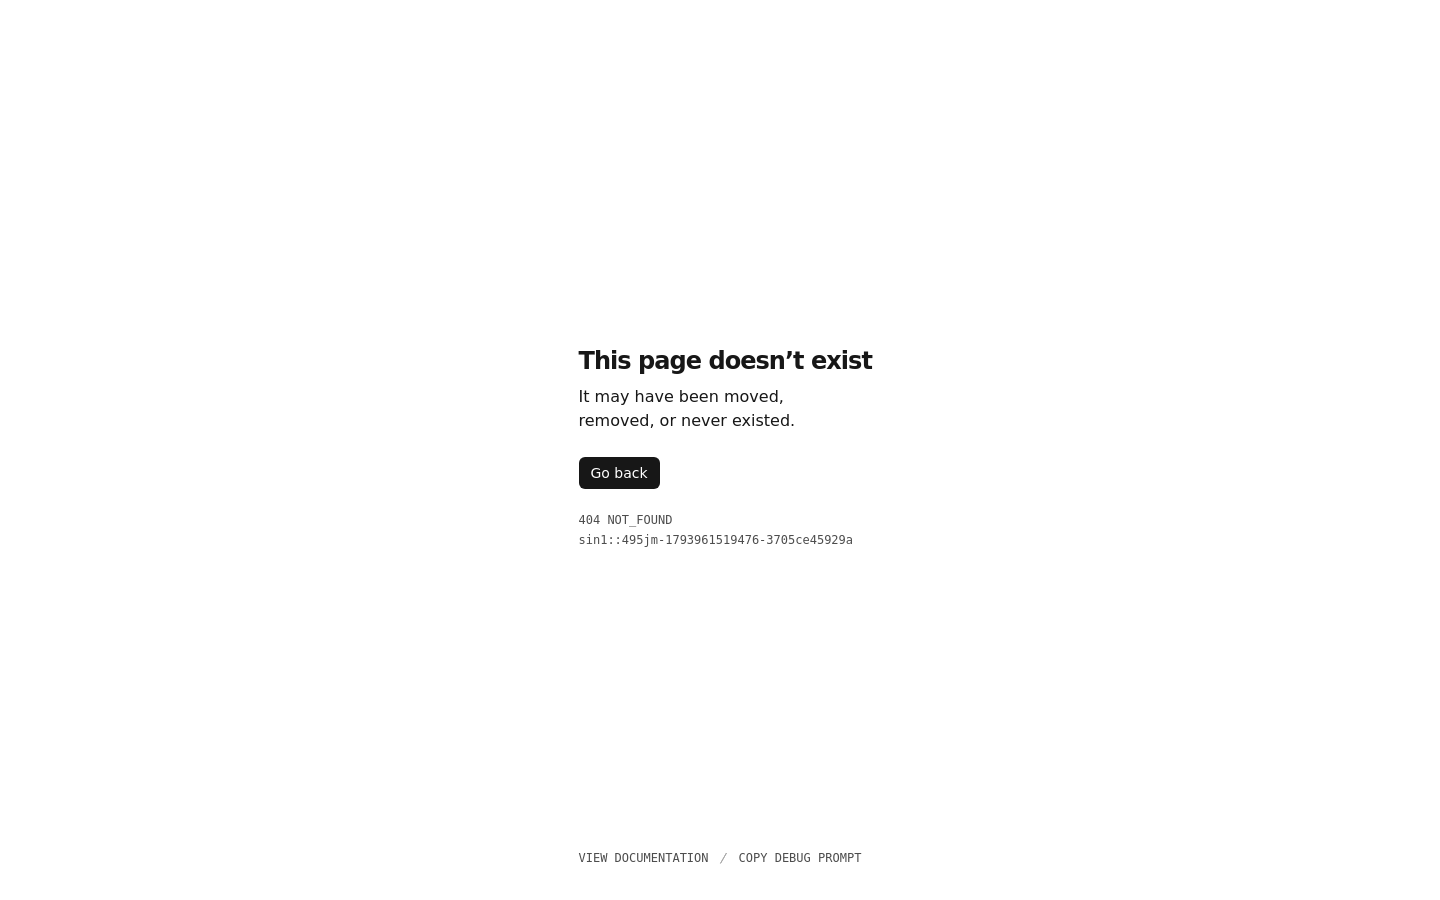
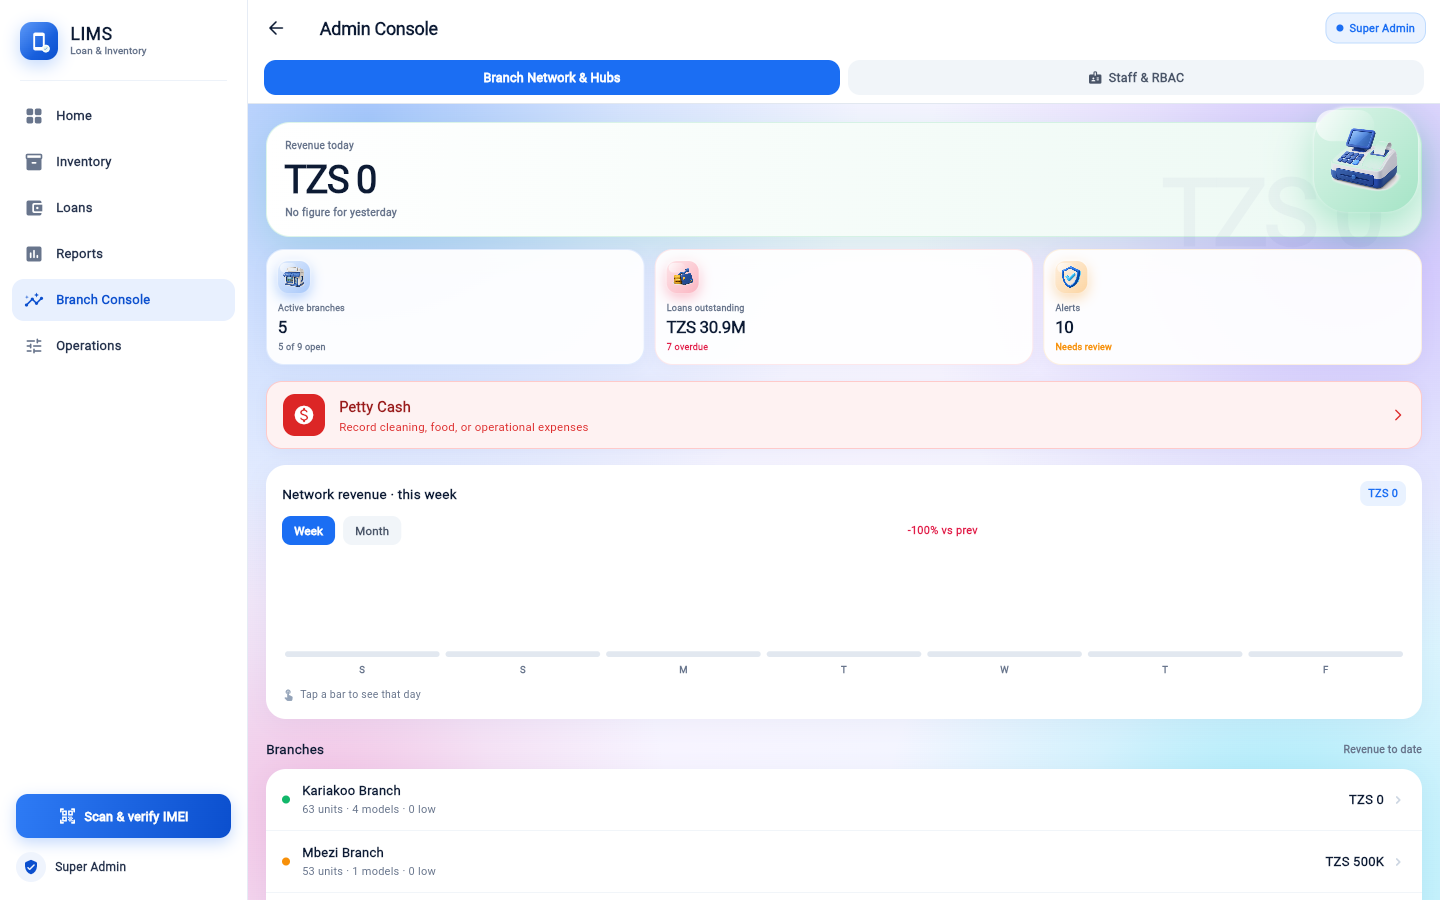
fix(auth): stay signed in across a reload
The token was always there - `sb-...-auth-token` in local storage - but nothing
read it back. UserRoleNotifier started at `noSession` and was only ever hydrated
by the login button, so the router saw a signed-out visitor on every launch and
parked them on the sign-in screen with a valid session sitting in storage. A
refresh, a reopened tab or an installed app meant logging in again.

- ApiService.restoreSession() rebuilds the identity from the stored session,
  using the same three-step profile lookup as login, and fails closed on an
  account with no usable role
- main() hydrates role, name, branch and avatar before the router is built
- the initial route opens on the dashboard when a session was restored, and a
  link that names a screen still wins over that default

Verified on the live URL: reload keeps the console, rather than returning to the
sign-in list.

diff --git a/frontend/lib/core/services/api_service.dart b/frontend/lib/core/services/api_service.dart
@@ -193,58 +193,8 @@ class ApiService {
       throw StateError('Invalid email or password.');
     }
 
-    // 2. Read the server-owned role. This is display/routing data only; RLS on
-    //    every table is what actually enforces access.
-    //
-    //    The live `public.profiles` table does NOT use the auth user id as its
-    //    primary key. It carries a separate nullable `auth_user_id` column, and
-    //    rows are keyed by their own `id`. Reading the profile by `.eq('id',
-    //    user.id)` therefore matched nothing and every real account fell through
-    //    to the fail-closed path — the accounts existed, the roles did not.
-    //
-    //    Resolution order, most authoritative first:
-    //      1. auth_user_id  — the correct link on the live schema
-    //      2. id            — correct on a schema where they are the same value
-    //      3. email         — legacy rows written before the link existed
-    //    `eq` escapes its argument, so no filter expression is interpolated.
-    Map<String, dynamic>? res;
-
-    try {
-      res = await client
-          .from('profiles')
-          .select()
-          .eq('auth_user_id', user.id)
-          .maybeSingle();
-    } catch (e) {
-      _report('backend call', e);
-      // Column absent on this schema — fall through.
-    }
-
-    if (res == null) {
-      try {
-        res = await client
-            .from('profiles')
-            .select()
-            .eq('id', user.id)
-            .maybeSingle();
-      } catch (e) {
-        _report('backend call', e);
-        // id is not an auth id on every schema — fall through.
-      }
-    }
-
-    if (res == null && (user.email ?? email).isNotEmpty) {
-      try {
-        res = await client
-            .from('profiles')
-            .select()
-            .eq('email', user.email ?? email)
-            .maybeSingle();
-      } catch (e) {
-        _report('backend call', e);
-        // Leave res null; the fail-closed branch below reports it.
-      }
-    }
+    // 2. Read the server-owned role.
+    final res = await _resolveProfile(user, email);
 
     final rawRole = res == null ? null : res['role'] as String?;
     final role = UserRoles.normalize(rawRole);
@@ -271,6 +221,95 @@ class ApiService {
       // role placeholder.
       'avatar': res == null ? null : res['avatar_asset'] as String?,
     };
+  }
+
+  /// The profile row behind a user, by the same three-step resolution [login]
+  /// uses: the live schema links on `auth_user_id`, some schemas use `id`, and
+  /// legacy rows only have an email.
+  ///
+  /// `eq` escapes its argument, so no filter expression is interpolated.
+  Future<Map<String, dynamic>?> _resolveProfile(
+    dynamic user,
+    String email,
+  ) async {
+    final client = Supabase.instance.client;
+    final userId = user.id as String;
+    Map<String, dynamic>? res;
+
+    try {
+      res = await client
+          .from('profiles')
+          .select()
+          .eq('auth_user_id', userId)
+          .maybeSingle();
+    } catch (e) {
+      _report('backend call', e);
+    }
+
+    if (res == null) {
+      try {
+        res = await client
+            .from('profiles')
+            .select()
+            .eq('id', userId)
+            .maybeSingle();
+      } catch (e) {
+        _report('backend call', e);
+      }
+    }
+
+    if (res == null && (user.email ?? email).isNotEmpty) {
+      try {
+        res = await client
+            .from('profiles')
+            .select()
+            .eq('email', user.email ?? email)
+            .maybeSingle();
+      } catch (e) {
+        _report('backend call', e);
+      }
+    }
+    return res;
+  }
+
+  /// Rebuild the signed-in identity from a session that is already on disk.
+  ///
+  /// The token survives a reload in local storage, but nothing used to read it
+  /// back: [UserRoleNotifier] starts at `noSession` and was only ever hydrated
+  /// by the login button, so every reload landed on the sign-in screen with a
+  /// perfectly valid session sitting in storage.
+  ///
+  /// Returns null when there is no session, or when the account has no usable
+  /// role - the same fail-closed rule as login.
+  Future<Map<String, dynamic>?> restoreSession() async {
+    if (!SupabaseConfig.isConfigured) return null;
+    try {
+      final client = Supabase.instance.client;
+      final session = client.auth.currentSession;
+      final user = session?.user;
+      if (user == null) return null;
+
+      final res = await _resolveProfile(user, user.email ?? '');
+      final role = UserRoles.normalize(res == null ? null : res['role'] as String?);
+      if (role == null || role == UserRoles.pending) {
+        await client.auth.signOut();
+        return null;
+      }
+
+      return {
+        'id': user.id,
+        'name': (res == null ? null : res['full_name'] as String?) ?? 'User',
+        'email': user.email ?? '',
+        'phone': (res == null ? null : res['phone'] as String?) ?? '',
+        'role': role,
+        'branch': (res == null ? null : res['branch_name'] as String?) ??
+            AppConstants.launchBranch,
+        'avatar': res == null ? null : res['avatar_asset'] as String?,
+      };
+    } catch (e) {
+      _report('session restore', e);
+      return null;
+    }
   }
 
   /// A failed read used to be swallowed silently, so a missing table, an RLS

diff --git a/frontend/lib/main.dart b/frontend/lib/main.dart
@@ -9,6 +9,7 @@ import 'core/services/app_permissions_service.dart';
 import 'core/widgets/responsive.dart';
 import 'core/l10n/locale_provider.dart';
 
+import 'core/data/inventory_provider.dart';
 import 'core/services/api_service.dart';
 
 void main() async {
@@ -46,14 +47,35 @@ void main() async {
   }
 
   // Read once, before the router exists: a first run opens the introduction, a
-  // later run opens sign-in.
+  // later run opens sign-in - unless a session is already on disk, in which case
+  // the person stays signed in. The token was always there; nothing read it.
   final seenOnboarding = await OnboardingPrefs.hasSeen();
+  final restored = SupabaseConfig.isConfigured
+      ? await ApiService().restoreSession()
+      : null;
   final savedLocale = await LocaleStore.load();
   runApp(
     ProviderScope(
       overrides: [
         seenOnboardingProvider.overrideWithValue(seenOnboarding),
         localeProvider.overrideWith((ref) => savedLocale),
+        restoredSessionProvider.overrideWithValue(restored),
+        userRoleProvider.overrideWith(
+          (ref) => UserRoleNotifier(
+            restoredRole: restored?['role'] as String?,
+          ),
+        ),
+        signedInNameProvider.overrideWith(
+          (ref) => restored?['name'] as String?,
+        ),
+        signedInBranchProvider.overrideWith(
+          (ref) => (restored?['branch'] as String?)?.trim().isEmpty ?? true
+              ? null
+              : restored!['branch'] as String?,
+        ),
+        signedInAvatarProvider.overrideWith(
+          (ref) => restored?['avatar'] as String?,
+        ),
       ],
       child: const LoanInventoryApp(),
     ),

diff --git a/frontend/lib/core/routing/app_router.dart b/frontend/lib/core/routing/app_router.dart
@@ -40,6 +40,15 @@ import '../widgets/back_guard.dart';
 /// pill, because no session had been established yet. A showcase must open on
 /// the login screen.
 final initialRouteProvider = Provider<String>((ref) {
+  // A session restored from disk outranks the onboarding flag: the person is
+  // already signed in, so opening on /login and making them do it again is the
+  // bug this guards against.
+  final role = ref.watch(userRoleProvider);
+  if (role != UserRoles.noSession && role != UserRoles.pending) {
+    final landsOnAdmin =
+        role == UserRoles.superAdmin || role == UserRoles.branchManager;
+    return landsOnAdmin ? '/admin' : '/home';
+  }
   return ref.watch(seenOnboardingProvider) ? '/login' : '/onboarding';
 });
 
@@ -57,8 +66,14 @@ Widget _standalone(Widget screen, {String fallback = '/home'}) =>
     BackGuard(child: screen, fallback: fallback);
 
 final routerProvider = Provider<GoRouter>((ref) {
+  // A link that names a screen wins over the default landing screen. Without
+  // this, restoring the session at launch sent a signed-in user hitting /ai to
+  // /admin - the deep link in the address bar was simply ignored.
+  final requested = Uri.base.path;
+  final deepLinked = requested.isNotEmpty && requested != '/';
+
   return GoRouter(
-    initialLocation: ref.watch(initialRouteProvider),
+    initialLocation: deepLinked ? requested : ref.watch(initialRouteProvider),
     // Auth guard. `UserRoles.noSession` is the fail-closed default, so anything
     // that is not a real role is treated as signed out. Enforcement in the UI is
     // cosmetic; the database is the real boundary once RLS lands.

diff --git a/frontend/lib/core/data/inventory_provider.dart b/frontend/lib/core/data/inventory_provider.dart
@@ -12,7 +12,11 @@ import 'sales_provider.dart';
 /// from the server profile via [hydrateFromSession]. No client-side role
 /// writer exists.
 class UserRoleNotifier extends StateNotifier<String> {
-  UserRoleNotifier() : super(UserRoles.noSession);
+  /// [restoredRole] is the role read from a session that was already on disk at
+  /// start-up. Without it the state began at `noSession` on every launch and the
+  /// router sent a signed-in user back to the sign-in screen.
+  UserRoleNotifier({String? restoredRole})
+      : super(UserRoles.normalize(restoredRole) ?? UserRoles.noSession);
 
   /// One-way hydration from the server session.
   ///
@@ -32,6 +36,10 @@ class UserRoleNotifier extends StateNotifier<String> {
 final userRoleProvider = StateNotifierProvider<UserRoleNotifier, String>((ref) {
   return UserRoleNotifier();
 });
+
+/// The identity rebuilt from a stored session, or null when the launch was
+/// signed out. `main` overrides this before the router is built.
+final restoredSessionProvider = Provider<Map<String, dynamic>?>((ref) => null);
 
 /// The staff profile behind the current session.
 ///
